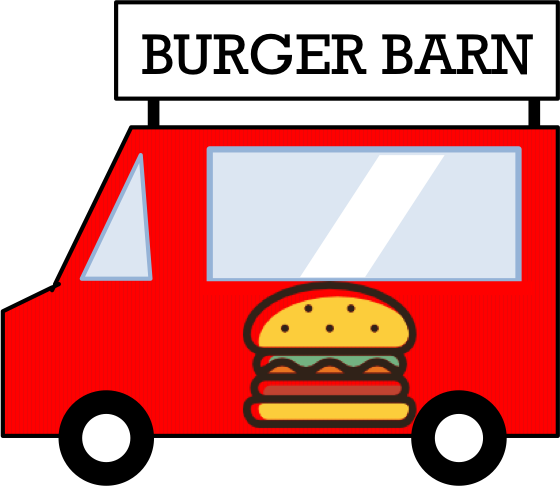
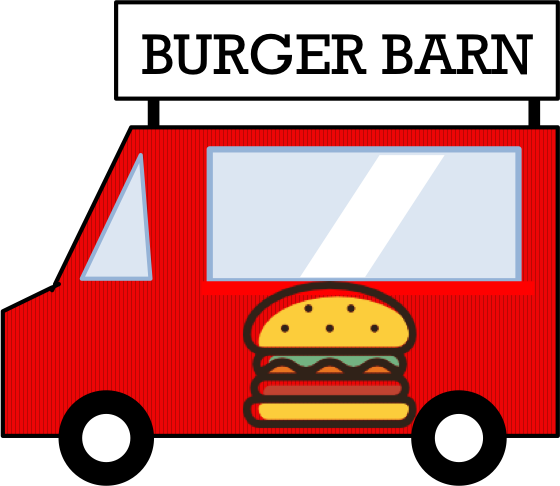
(1) changed to food trucks; (2) changed from 4 to 3 food trucks; (3) location of food trucks changes every day

Changed region(s): [[0.0, 0.2469, 1.0, 0.8951], [0.6982, 0.8642, 0.7286, 0.8951], [0.5768, 0.8642, 0.6071, 0.8951]]

diff --git a/experiments/restaurants_v1/index.html b/experiments/restaurants_v1/index.html
@@ -63,14 +63,13 @@
             </div>
             
             <div class = "slide" id = "restaurant_intro">
-                <p>Across the street from Cognitiv Inc, there are four restaurants.<br/> The employees of Cognitiv Inc always eat at one of these four restaurants:</p>
+                <p>Across the street from Cognitiv Inc, there are three food trucks.<br/> The employees of Cognitiv Inc always eat at one of these three food trucks:</p>
                 
                 <table class = "restaurant_table">
                     <tr class = "restaurant_roster">
-                        <td><img class = "restaurant" src = "images/restaurants/bb.png" /></td>
-                        <td><img class = "restaurant" src = "images/restaurants/pp.png" /></td>
-                        <td><img class = "restaurant" src = "images/restaurants/ss.png" /></td>
-                        <td><img class = "restaurant" src = "images/restaurants/tt.png" /></td>
+                        <td><img class = "restaurant" src = "images/trucks/bb.png" /></td>
+                        <td><img class = "restaurant" src = "images/trucks/ss.png" /></td>
+                        <td><img class = "restaurant" src = "images/trucks/tt.png" /></td>
                     </tr>
                     
                     <tr class = "agent_roster">
@@ -82,9 +81,7 @@
                         
                         <td>
                         </td>
-                        
-                        <td>
-                        </td>
+
                     </tr>
                     
                 </table>
@@ -146,13 +143,9 @@
                         <td></td>
                         <td></td>
                         <td></td>
-                        <td></td>
                     </tr>
                     
                     <tr class = "agent_roster">
-                        <td>
-                        </td>
-                        
                         <td>
                         </td>
                         

diff --git a/experiments/restaurants_v1/scripts/exp_timeline.js b/experiments/restaurants_v1/scripts/exp_timeline.js
@@ -19,12 +19,11 @@ $(document).ready(function(){
     */
 
     var days = ['Monday', 'Tuesday', 'Wednesday', 'Thursday', 'Friday'];
-    days = ['Monday', 'Tuesday'];
+    days = ['Monday', 'Tuesday']; // For debugging only
 
-    var restaurants = [{key: 'bb', name: 'Burger Barn', img: 'images/restaurants/bb.png'},
-                      {key: 'pp', name: 'Pasta Plaza', img: 'images/restaurants/pp.png'},
-                      {key: 'ss', name: 'Stirfry Shack', img: 'images/restaurants/ss.png'},
-                      {key: 'tt', name: 'Taco Town', img: 'images/restaurants/tt.png'}];
+    var restaurants = [{key: 'bb', name: 'Burger Barn', img: 'images/trucks/bb.png'},
+                      {key: 'ss', name: 'Stirfry Shack', img: 'images/trucks/ss.png'},
+                      {key: 'tt', name: 'Taco Town', img: 'images/trucks/tt.png'}];
 
     var agents = [{name: 'Alice', abbrev: 'A', img: 'images/agents/a.png', 
                    lunch: ['tt', 'tt', 'tt', 'tt', 'tt']},
@@ -73,6 +72,9 @@ $(document).ready(function(){
 
         exp_timeline.push(new_day);
         
+        // Shuffle restaurants each day
+        var resto_locations = _.shuffle(restaurants);
+        
         // Show agents' lunch for each day
         for (a = 0; a < n_agents; a++) {
             var curr_agent = agents[a]
@@ -88,7 +90,7 @@ $(document).ready(function(){
                             abbrev: agents[a]['abbrev'],
                             img: agents[a]['img'],
                             restaurant: curr_resto['name'],
-                            all_restaurants: restaurants,
+                            all_restaurants: resto_locations,
                             agents: disp_agents.slice()}
             
             exp_timeline.push(new_lunch);

diff --git a/experiments/restaurants_v1/styles/experiment-style.css b/experiments/restaurants_v1/styles/experiment-style.css
@@ -99,7 +99,7 @@ button {
 }
 
 .restaurant_table {
-    width: 90vw;
+    width: 60vw;
     display: block;
     margin: 0 auto;
     table-layout: fixed;
